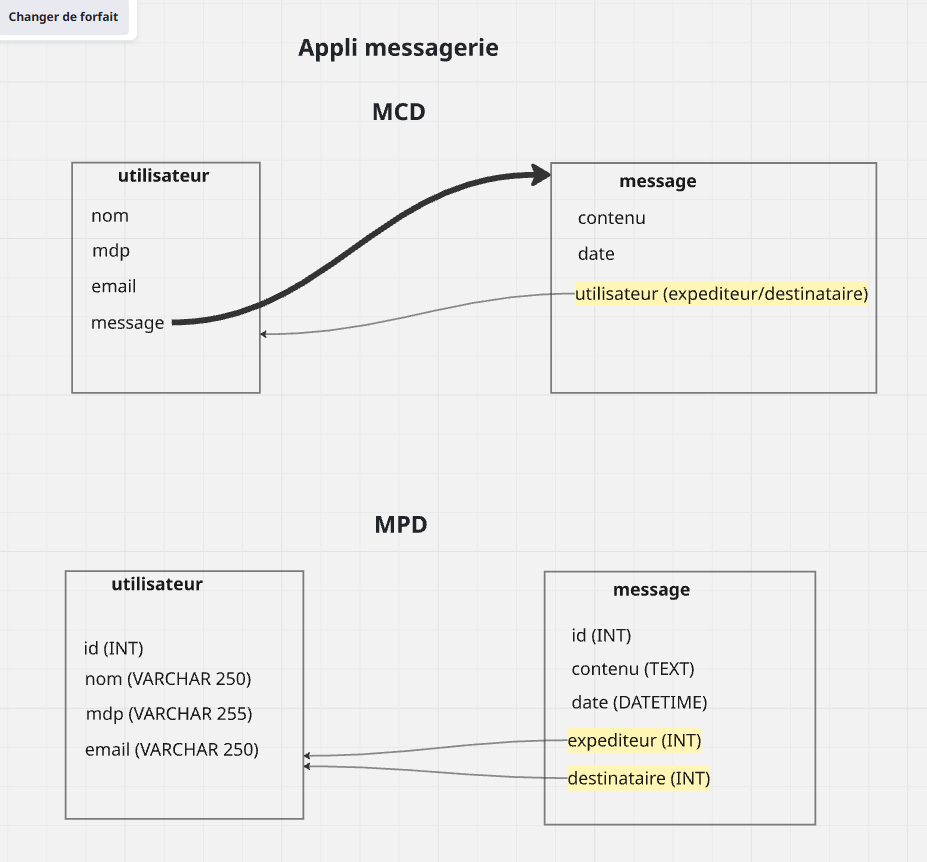
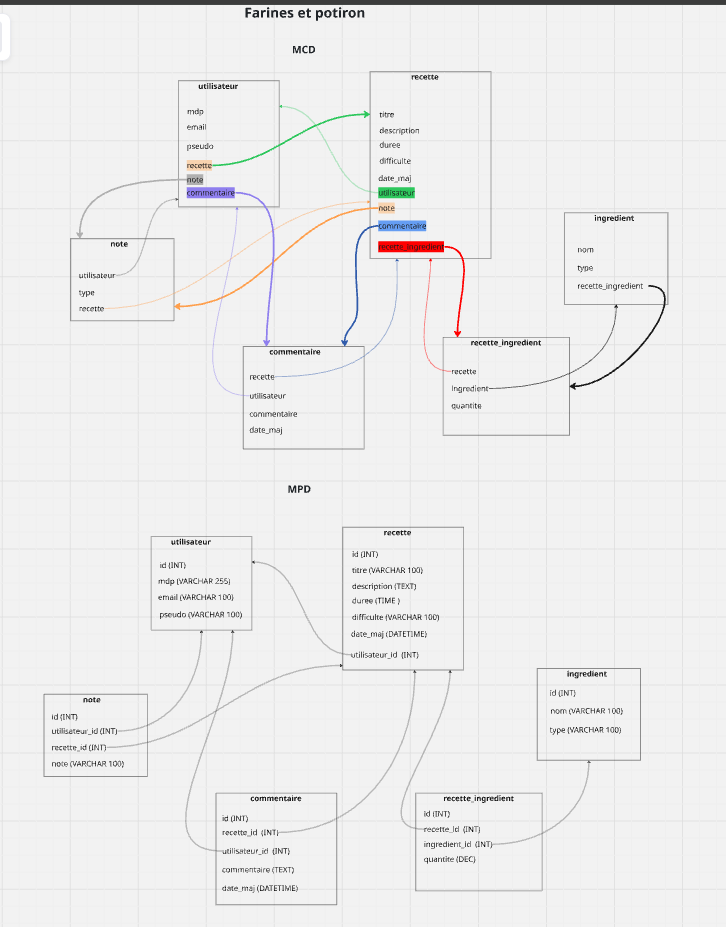
kk

diff --git a/templates/pages/afficher-dashboard.php b/templates/pages/afficher-dashboard.php
@@ -10,6 +10,63 @@
     <body>
         <div class ="container-principal">    
             <div>
+                <!-- liste de mes recettes -->
+                <h2> liste de mes recettes </h2>
+
+                <table border="1" cellpadding="8">
+                    <thead>
+                        <tr>
+                            <th>Titre</th>
+                            <th>Durée</th>
+                            <th>Difficulté</th>
+                            <th>Date de mise à jour</th>
+                            <th>Actions</th>
+                        </tr>
+                    </thead>
+
+                    <tbody>
+
+                        <?php if (empty($mesRecettes)): ?>
+
+                            <tr>
+                                <td colspan="5">
+                                    Vous n'avez encore créé aucune recette.
+                                </td>
+                            </tr>
+
+                        <?php else: ?>
+
+                            <?php foreach ($mesRecettes as $recette): ?>
+
+                                <tr>
+                                    <td><?= $recette->html("titre") ?></td>
+
+                                    <td><?= $recette->html("duree") ?> min</td>
+
+                                    <td><?= $recette->html("difficulte") ?></td>
+
+                                    <td><?= $recette->html("date_maj") ?></td>
+
+                                    <td>
+                                        <a href="voir-recette.php?id=<?= $recette->id() ?>">
+                                            Voir
+                                        </a>
+
+                                        |
+
+                                        <a href="modifier-recette.php?id=<?= $recette->id() ?>">
+                                            Modifier
+                                        </a>
+                                    </td>
+                                </tr>
+
+                            <?php endforeach; ?>
+
+                        <?php endif; ?>
+
+                    </tbody>
+                </table>
+
                 <!-- rechercher recette formulaire -->
                 <div>
                     <h2>🔍 Rechercher une recette</h2>
@@ -53,29 +110,7 @@
                 </div>
                 
                 <div class="bienvenue">
-                    <h2>Bienvenue sur votre dashboard <?= $user->html("nom") ?> 👋</h2>
-                    
-                    <!---------liste des recettes----------------->
-
-                    <h3> liste des recettes: </h3>
-
-                    <select id="nom">
-                        <option value="">-- Sélectionnez --</option>
-                        
-                        <?php foreach($allUsers as $userSelected): ?>
-                        <!-- ne pas afficher l'utilisateur connecté -->
-                            <?php if($userSelected->id() == $_SESSION["id"]) continue; ?>
-
-                            <option value="<?= $userSelected->html("nom") ?>">
-                                <?= $userSelected->html("nom") ?>
-                            </option>
-
-                        <?php endforeach; ?>
-
-                    </select>
-
-                    <button onclick="ouvrirConversation()">Ecrire le message </button><br><br>
-                
+                    <h2>Bienvenue sur votre dashboard <?= $user->html("nom") ?> 👋</h2>                
                 </div>               
                 
 

diff --git a/login-register.php b/login-register.php
@@ -14,17 +14,12 @@ switch ($action){
         //instancier un utilisateur
         $user = new utilisateur();
         //assigner les parametre de l'utilisateur
-        $email    = $_POST["email"] ?? "";
-        $password = $_POST["password"] ?? "";
+        $identifiant = $_POST["identifiant"] ?? "";
+        $password    = $_POST["password"]    ?? "";
 
-        $user->set("email", $email);
-        $user->set("mdp", $password);
 
         //verifier si l'utilisateur existe ds la BDD
-        $verifuser = $user->login(
-            $user->value("email"),
-            $user->value("mdp")
-        );
+        $verifuser = $user->login($identifiant, $password);
 
         if ($verifuser){
             
@@ -33,7 +28,7 @@ switch ($action){
             connection($user);
 
             //rediriger vers dashboard
-            header("Location: dashbord.php"); 
+            header("Location: dashboard.php"); 
             exit;
         }
             //message d'erreur a afficher sur la page d'accueil
@@ -47,8 +42,8 @@ switch ($action){
 
         $user = new utilisateur();
 
-        $pseudo   = trim($_POST["pseudo"] ?? "");
-        $email    = trim($_POST["email"] ?? "");
+        $pseudo   = trim($_POST["pseudo"]   ?? "");
+        $email    = trim($_POST["email"]    ?? "");
         $password = trim($_POST["password"] ?? "");
 
         // verifier si tous les champs sont remplis
@@ -88,9 +83,10 @@ switch ($action){
         }
 
         //assigner les parametre de l'utilisateur
-        $user->set("nom", $pseudo);
+        $user->set("pseudo", $pseudo);
         $user->set("email", $email);
         $user->set("mdp", $password);
+        $user->set("date_creation", date("Y-m-d H:i:s"));
 
         $userRegister = $user->register();
 

diff --git a/templates/pages/afficher-accueil-inscription.php b/templates/pages/afficher-accueil-inscription.php
@@ -24,17 +24,18 @@
             <!-- creer compte -->
             <h2>Connexion / Inscription</h2>
 
+            <!--------------- user et mdp test ----------------------->
+            <h3 style = "color: yellowgreen;">mot de passe test et email test</h3>
+            <h3>EMAIL omar : r@gmail.com  MDP : 1234</h6>
+            <h3>EMAIL doe : gr@gmail.com  MDP : 123</h6>
+            <h3>EMAIL alex : grr@gmail.com  MDP : 12</h6>
+            <h3>EMAIL jack : rty@gmail.com  MDP : 1</h6>
+
             <!-- message d'erreur email ou mdp incorrect  -->
             <?php if (!empty($_SESSION["error_login"])): ?>
                 <p style="color:red; font-weight:bold;"><?= $_SESSION["error_login"] ?></p>
                 <?php unset($_SESSION["error_login"]); ?>
             <?php endif; ?>
-
-            <h3 style = "color: yellowgreen;">mot de passe test et email test</h3>
-            <h6>EMAIL omar : r@gmail.com  MDP : 1234</h6>
-            <h6>EMAIL doe : gr@gmail.com  MDP : 123</h6>
-            <h6>EMAIL alex : grr@gmail.com  MDP : 12</h6>
-            <h6>EMAIL jack : rty@gmail.com  MDP : 1</h6>
 
             <!-- login : connexion -->
             <form method="POST" action="login-register.php?action=login">

diff --git a/lib/init.php b/lib/init.php
@@ -10,15 +10,20 @@ error_reporting(E_ALL);
 
 // Ouvrir la BDD (dans la variable globale $bdd)
 global $bdd;        // déclarer la varianle $bdd comme globale
-$bdd = new PDO("mysql:host=172.18.0.1;dbname=financement-omar;charset=UTF8", "financement-omar", "T?59jpyytk");
+$bdd = new PDO("mysql:host=172.18.0.1;dbname=fep-omar;charset=UTF8", "fep-omar", "T?59jpyytk");
 $bdd->setAttribute(PDO::ATTR_ERRMODE, PDO::ERRMODE_WARNING) ;  // En mise au point seulement
 
 
 // Inclure les classes et les fonctions
 require_once __DIR__ . "/../modele/utilisateur.php";
 require_once __DIR__ . "/../lib/session.php";
-require_once __DIR__ . "/../modele/message.php";
-require_once __DIR__ . "/../modele/archive.php";
+
+require_once __DIR__ . "/../modele/note.php";
+require_once __DIR__ . "/../modele/commentaire.php";
+require_once __DIR__ . "/../modele/recette.php";
+require_once __DIR__ . "/../modele/ingredient.php";
+require_once __DIR__ . "/../modele/recette_ingredient.php";
+
 
 // Initialisation de la session en chargeant la fonction (presente ds session.php) qui inclut session_start
 

diff --git a/modele/utilisateur.php b/modele/utilisateur.php
@@ -12,23 +12,27 @@ class utilisateur extends _model {
     protected $fields = [
     "email" ,
     "mdp", 
-    "nom"
+    "pseudo",
+    "date_creation"
     ];
     protected $links  = [];
 
 /*=====================================================
       1.     authentifier un utilisateur
 =======================================================*/
-    function login($email, $password) {
+    function login($identifiant, $password) {
         // Rôle de la méthode: authentifier un utilisateur (verifier si l utilisateur existe ds la BDD)
         // Paramètres : $email, $password
         // Retour : true ou false  
 
         // Création de la requête
-        $sql = "SELECT * FROM `$this->table` where `email` = :email";
+        $sql = "SELECT * FROM `$this->table` 
+                where ( `email` = :identifiant OR  `pseudo` = :identifiant ) ";
+                
         // Valoriser l'identifiant, ds ce cas l'email
+
         $param = [
-            ":email" => $email,
+            ":identifiant" => $identifiant,
         ]; 
 
         global $bdd;

diff --git a/dashboard.php b/dashboard.php
@@ -6,27 +6,15 @@ require_once "lib/init.php";
 // message de deconnection de l'utilisateur
 
 //recuperer l'utilisateur connecté
+
+
 $user = userConnected();
 
-//instancier un message
-$message= new message();
+//instancier une recette
+$recette = new recette();
 
-//recuperer le tableau d objets des conversations (tous les messages ou l'utilisateur connecté est impliqué) 
-$resultMessage = $message->getConversation($user->id());
-
-
-//recup ts les utilisateur 
-$utilisateur = new utilisateur();
-$allUsers = $utilisateur->listAll();
-//debug
-/*echo "<pre>";
-print_r($resultMessage);
-echo "</pre>";*/
-
-//debug
-/*echo "<pre>"; echo "conversations : ";
-print_r($conversations);
-echo "</pre>";*/
+//recuperer mes recettes
+$mesRecettes = $recette->mes_recettes($user->id());
 
 
 // Afficher le template  
